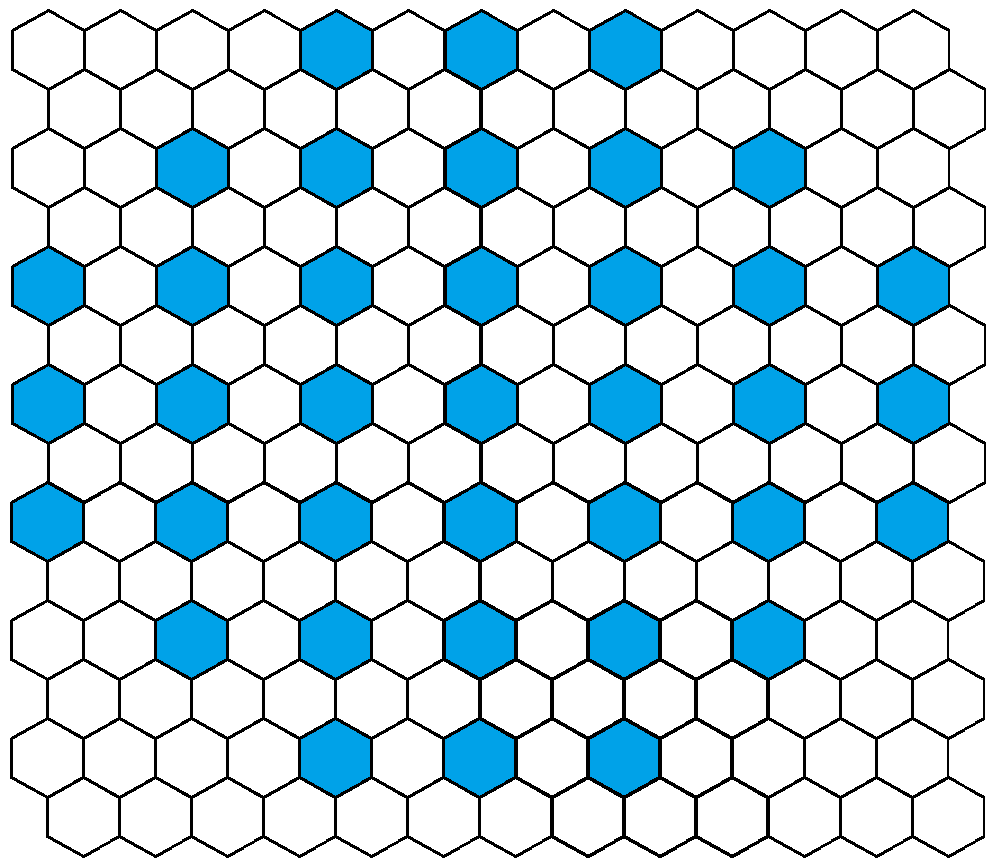
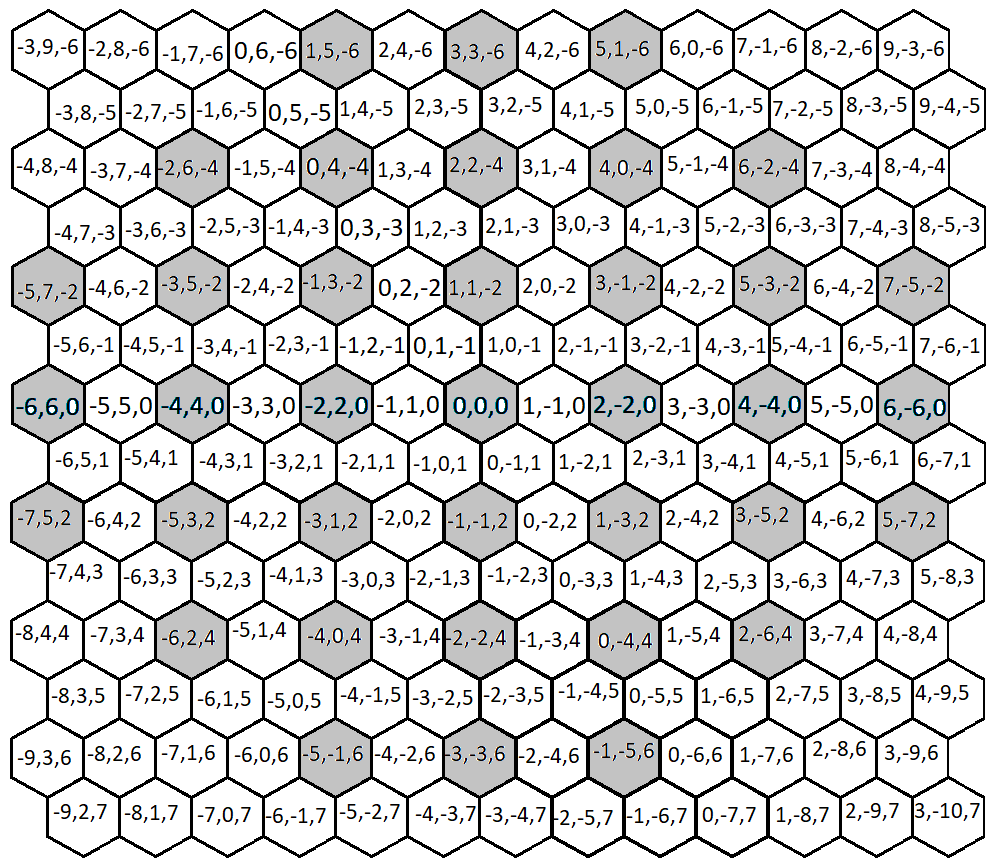
Fixed octagon coordinate generation (tested 3x3)

diff --git a/Ballast.Core/src/Client/services/board-generator.ts b/Ballast.Core/src/Client/services/board-generator.ts
@@ -132,13 +132,13 @@ export class BoardGenerator implements IBoardGenerator {
 
         let octagon: Tile[] = [];
         let increment = TileShape.Octagonal.doubleIncrement ? 2 : 1;
-        let maxLength = (sideLength * increment) + (2 * ((sideLength  - 1) * increment));
-        let centerOffset = centerOrigin ? ((maxLength / 2) - 1) : 0;
+        let maxLength = sideLength + 2 * (sideLength - 1);
+        let centerOffset = centerOrigin ? (((maxLength * increment) / 2) - 1) : 0;
         
         // Build top portion of octagon
         let rowLength = sideLength - 2;
         let rowIndex = -1;
-        while(rowLength <= (maxLength - 2)) {
+        while(rowLength <= (maxLength - 1)) {
             rowLength += 2;
             rowIndex++;
             let row = (rowIndex * increment) - centerOffset;
@@ -155,9 +155,9 @@ export class BoardGenerator implements IBoardGenerator {
         }
 
         // Build middle portion of octagon
-        for(rowIndex = sideLength - 1; rowIndex < sideLength; rowIndex++) {
+        let middleRowCount = rowIndex + sideLength;
+        for(rowIndex; rowIndex < middleRowCount; rowIndex++) {
             rowLength = maxLength;
-            rowIndex++;
             let row = (rowIndex * increment) - centerOffset;
             for(let colIndex = 0; colIndex < rowLength; colIndex++) {
                 let col = (colIndex * increment) - centerOffset;
@@ -171,7 +171,8 @@ export class BoardGenerator implements IBoardGenerator {
         }
 
         // Build bottom portion of octagon
-        while(rowLength >= sideLength) {
+        rowIndex--;
+        while(rowLength > sideLength) {
             rowLength -= 2;
             rowIndex++;
             let row = (rowIndex * increment) - centerOffset;
@@ -232,7 +233,7 @@ export class BoardGenerator implements IBoardGenerator {
             }));
         }
 
-        // Build bottom portion of octagon
+        // Build bottom portion of hexagon
         while(rowLength >= sideLength) {
             rowLength -= 1;
             rowIndex++;

diff --git a/Ballast.Core/src/Client/services/board-generator.test.ts b/Ballast.Core/src/Client/services/board-generator.test.ts
@@ -107,10 +107,24 @@ test('creates regular square with side length 3', () => {
     expect(board.getTile([0, -4, 4])).toBeUndefined();
 });
 
-// test('creates regular octagon with side length 3', () => {
-//     let board = boardGenerator.createBoard(gameId, BoardType.RegularPolygon, TileShape.Octagonal, 3);
-//     //console.log(board.tileMap.keys())
-//     expect(board.gameId).toBe(gameId);
-//     expect(board.tileShape).toBe(TileShape.Octagonal);
-//     expect(board.tiles.length).toEqual(37);
-// });
+test('creates regular octagon with side length 3', () => {
+    let board = boardGenerator.createBoard(gameId, BoardType.RegularPolygon, TileShape.Octagonal, 3);
+    console.log(board.tileMap.keys())
+    expect(board.gameId).toBe(gameId);
+    expect(board.tileShape).toBe(TileShape.Octagonal);
+    expect(board.tiles.length).toEqual(37);
+    expect(board.getTile([-1, 7, -6])).toBeUndefined();
+    expect(board.getTile([3, 3, -6])).not.toBeUndefined();
+    expect(board.getTile([9, -3, -6])).toBeUndefined();
+    expect(board.getTile([-5, 7, -2])).not.toBeUndefined();
+    expect(board.getTile([0, 0, 0])).not.toBeUndefined();
+    expect(board.getTile([1, -1, 0])).toBeUndefined();
+    expect(board.getTile([5, -7, 2])).not.toBeUndefined();
+    expect(board.getTile([-8, 4, 4])).toBeUndefined();
+    expect(board.getTile([-6, 2, 4])).not.toBeUndefined();
+    expect(board.getTile([2, -6, 4])).not.toBeUndefined();
+    expect(board.getTile([4, -8, 4])).toBeUndefined();
+    expect(board.getTile([-3, -3, 6])).not.toBeUndefined();
+    expect(board.getTile([-7, 1, 6])).toBeUndefined();
+    expect(board.getTile([1, -7, 6])).toBeUndefined();
+});
